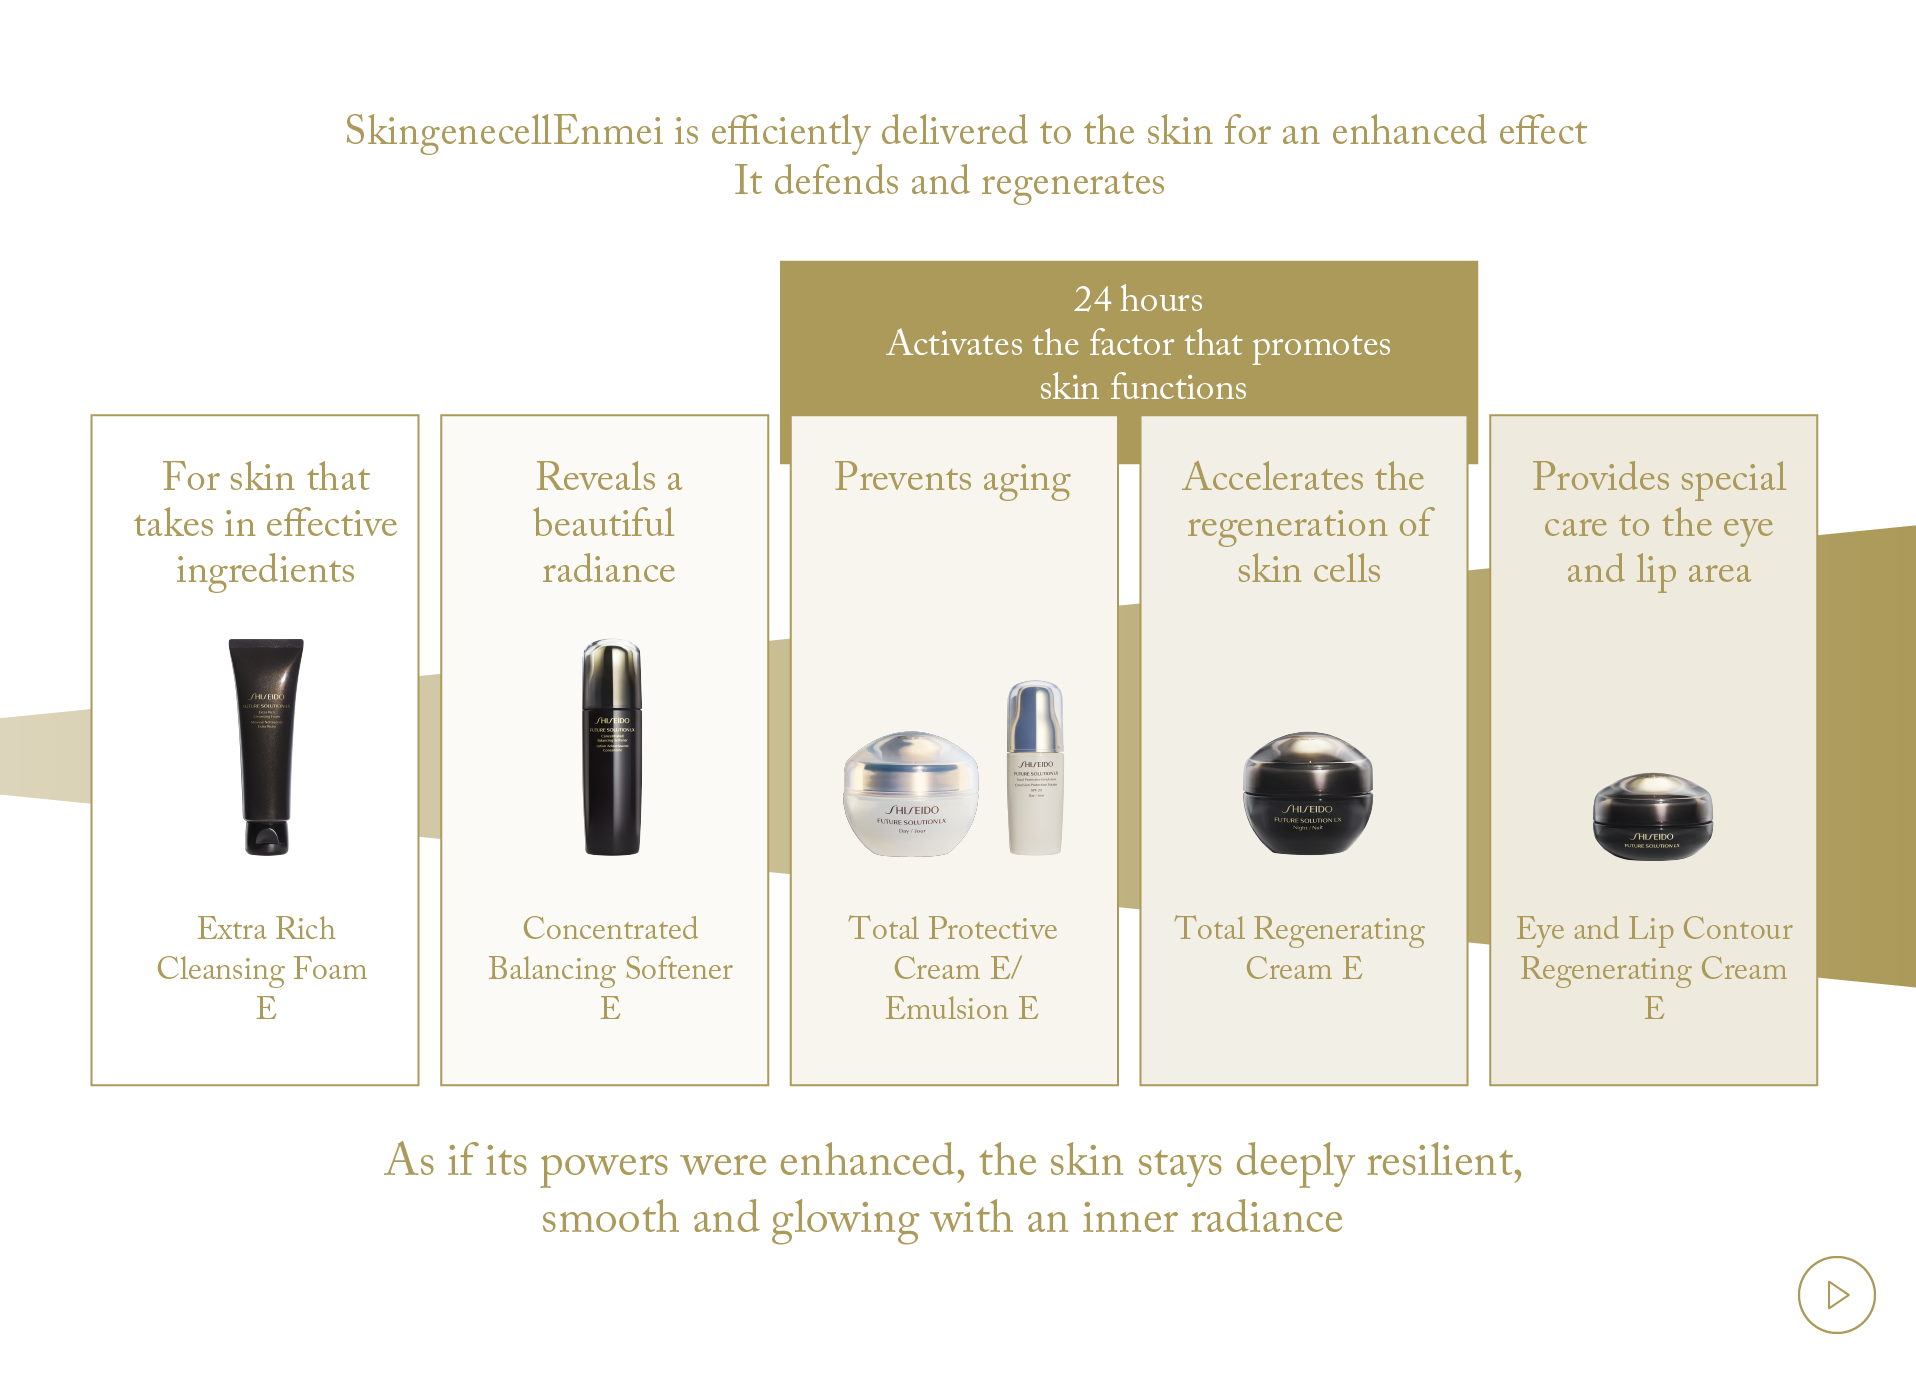
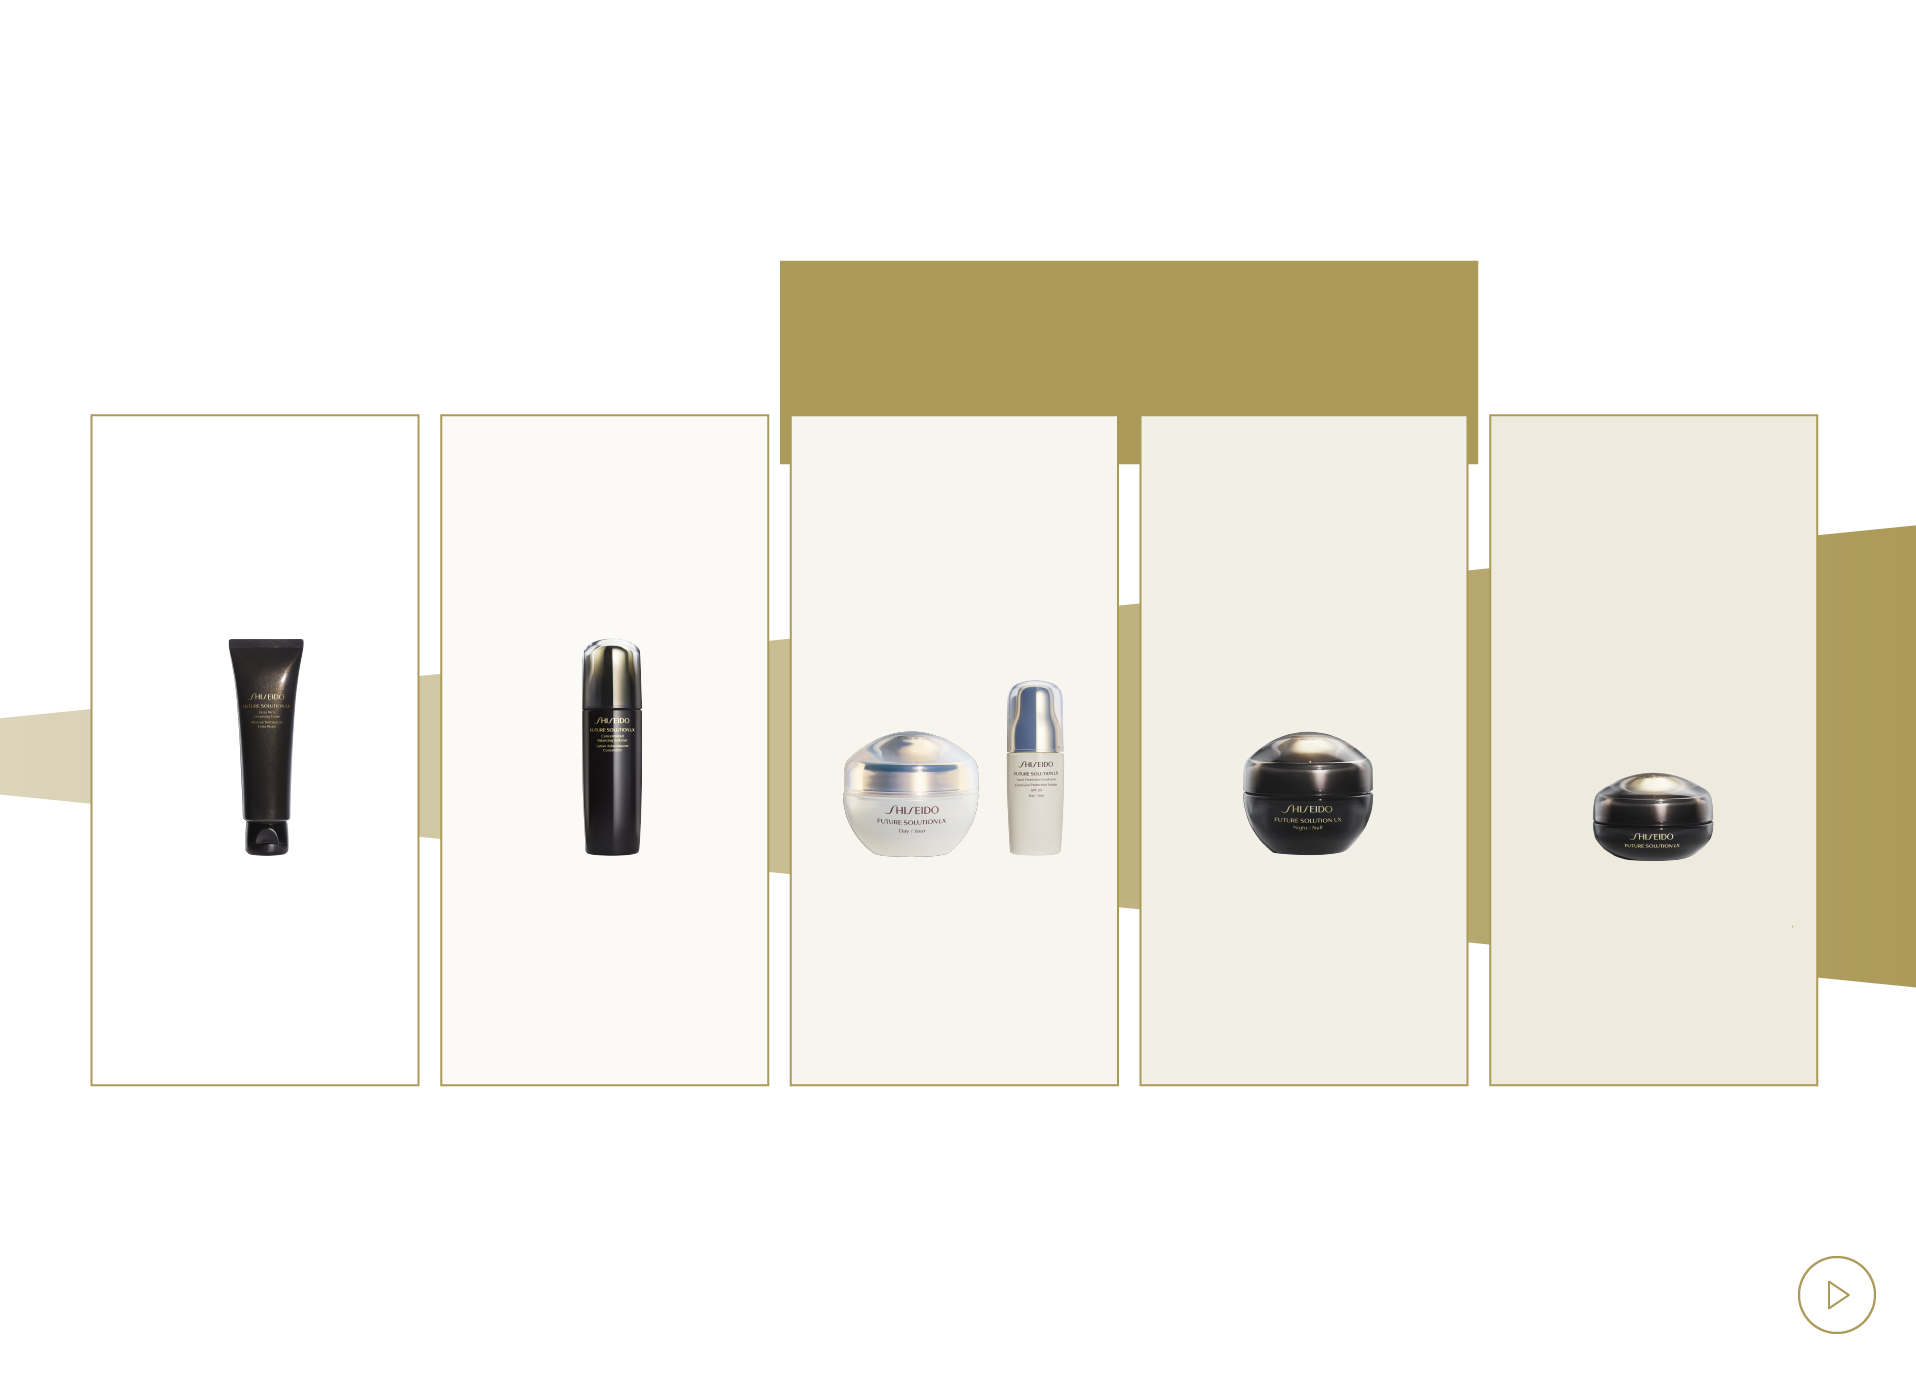
BLS View csv 修正

diff --git a/Share Beauty App/Views/LX/LXProductBLSView.swift b/Share Beauty App/Views/LX/LXProductBLSView.swift
@@ -32,6 +32,21 @@ class LXProductBLSView: UIView {
         let mUpperSteps = line.step
         let mLowerSteps = mUpperSteps.flatMap {$0.lineStep}
         let products = ProductListData(productIds: mLowerSteps[0].product).products
+        for i in 0..<5 {
+            print(i)
+            let label = self.viewWithTag(20 + i) as! UILabel
+            if i == 2 {
+                let productName = String(format: "%@/%@", products[i].productName, products[i + 1].productName)
+                label.text = productName
+                print(productName)
+            } else if i < 2 { 
+                label.text = products[i + 1].productName
+                print(products[i].productName )
+            } else {
+                label.text = products[i].productName
+                print(products[i + 1].productName )            
+            }
+        }
     }
     
     func close() {

diff --git a/Share Beauty App/Views/LX/LXProductGraphView.swift b/Share Beauty App/Views/LX/LXProductGraphView.swift
@@ -36,7 +36,7 @@ class LXProductGraphView: UIView, UIScrollViewDelegate {
                 view.mImageView.image = UIImage(named: String(format: "lx_product_graph_%d",index + 1))
             }
             self.mScrollV.addSubview(view)
-            for i in 0..<9 {
+            for i in 0..<9 { 
                 if index == 0 {
                     let label = view.viewWithTag(10 + i) as! UILabel
                     var csvId = 0
